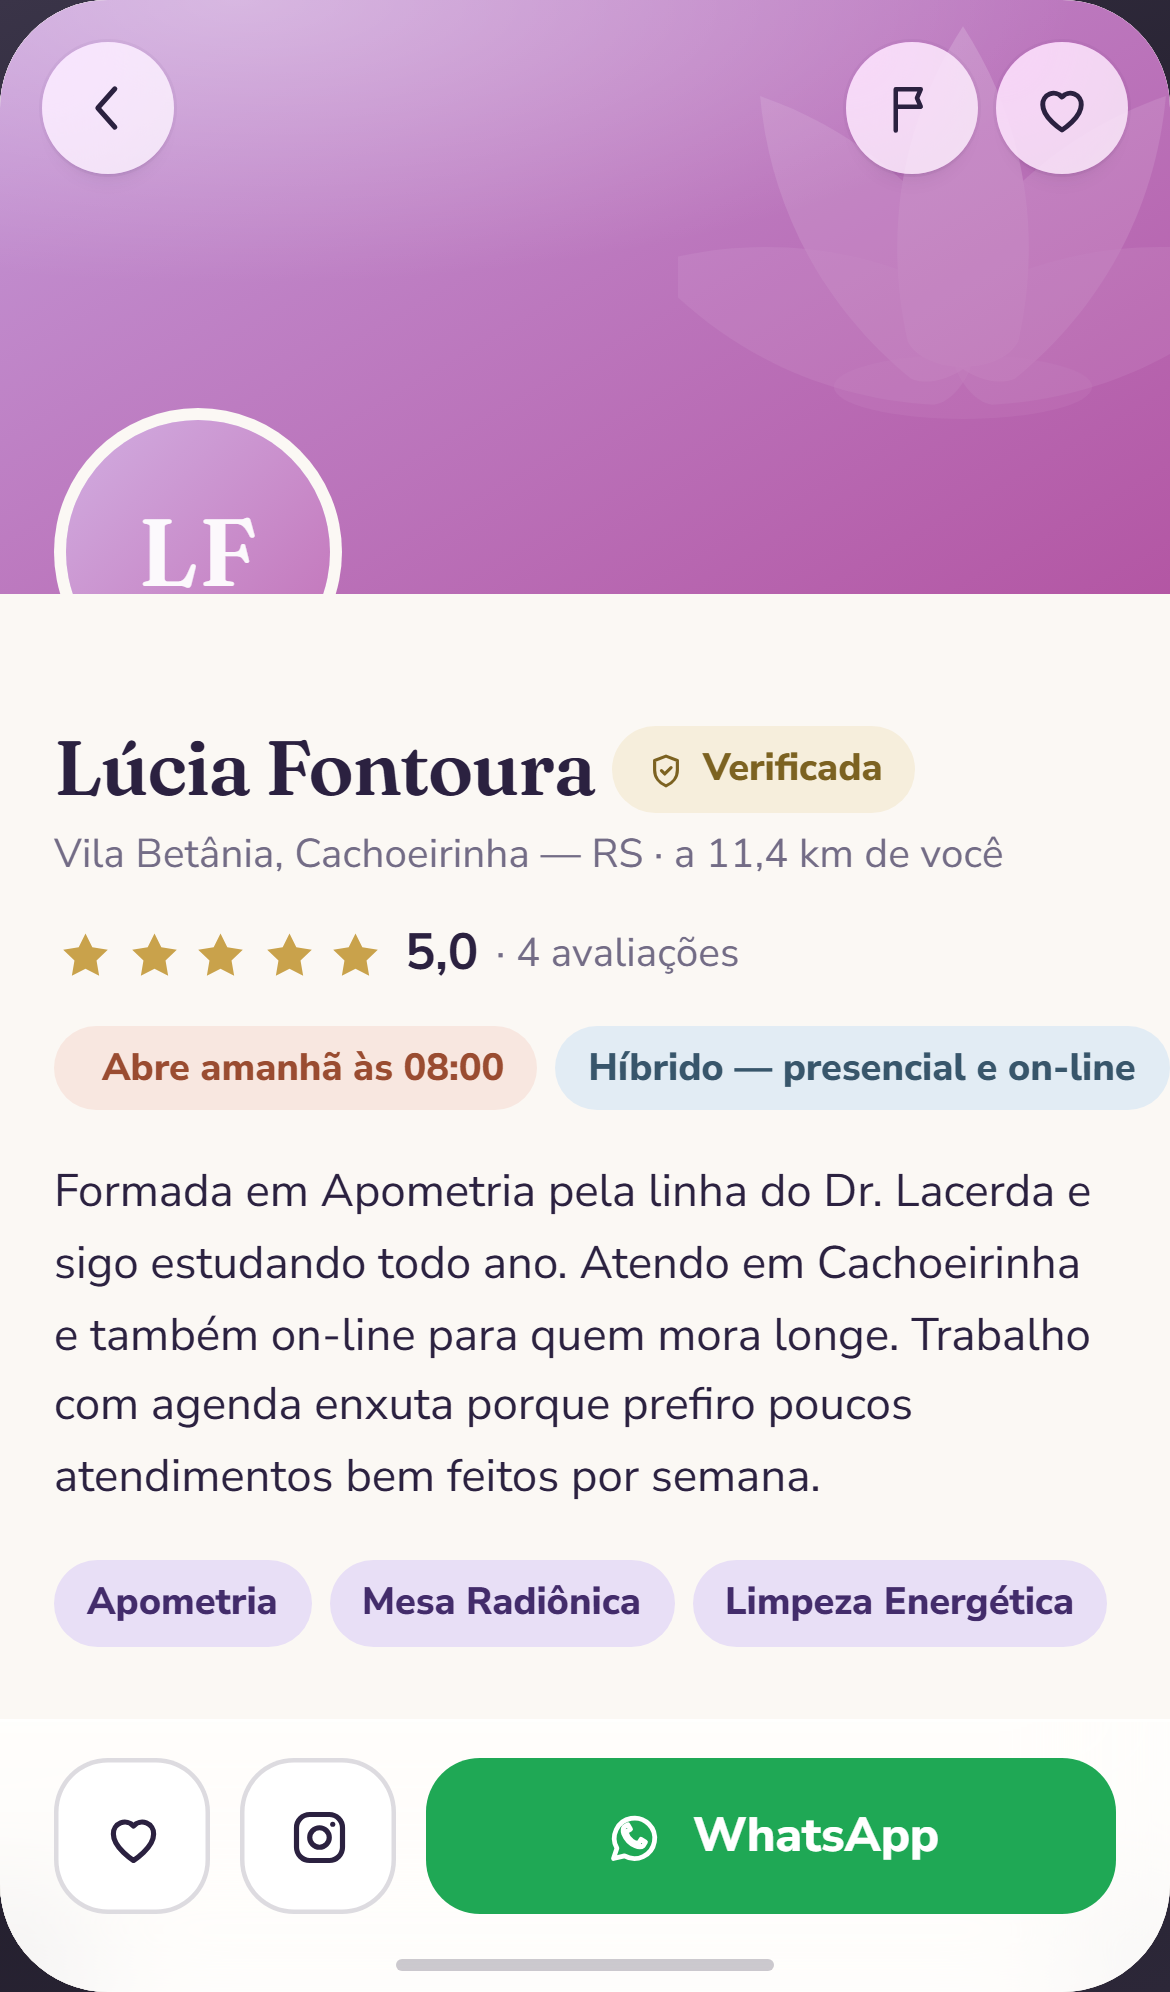
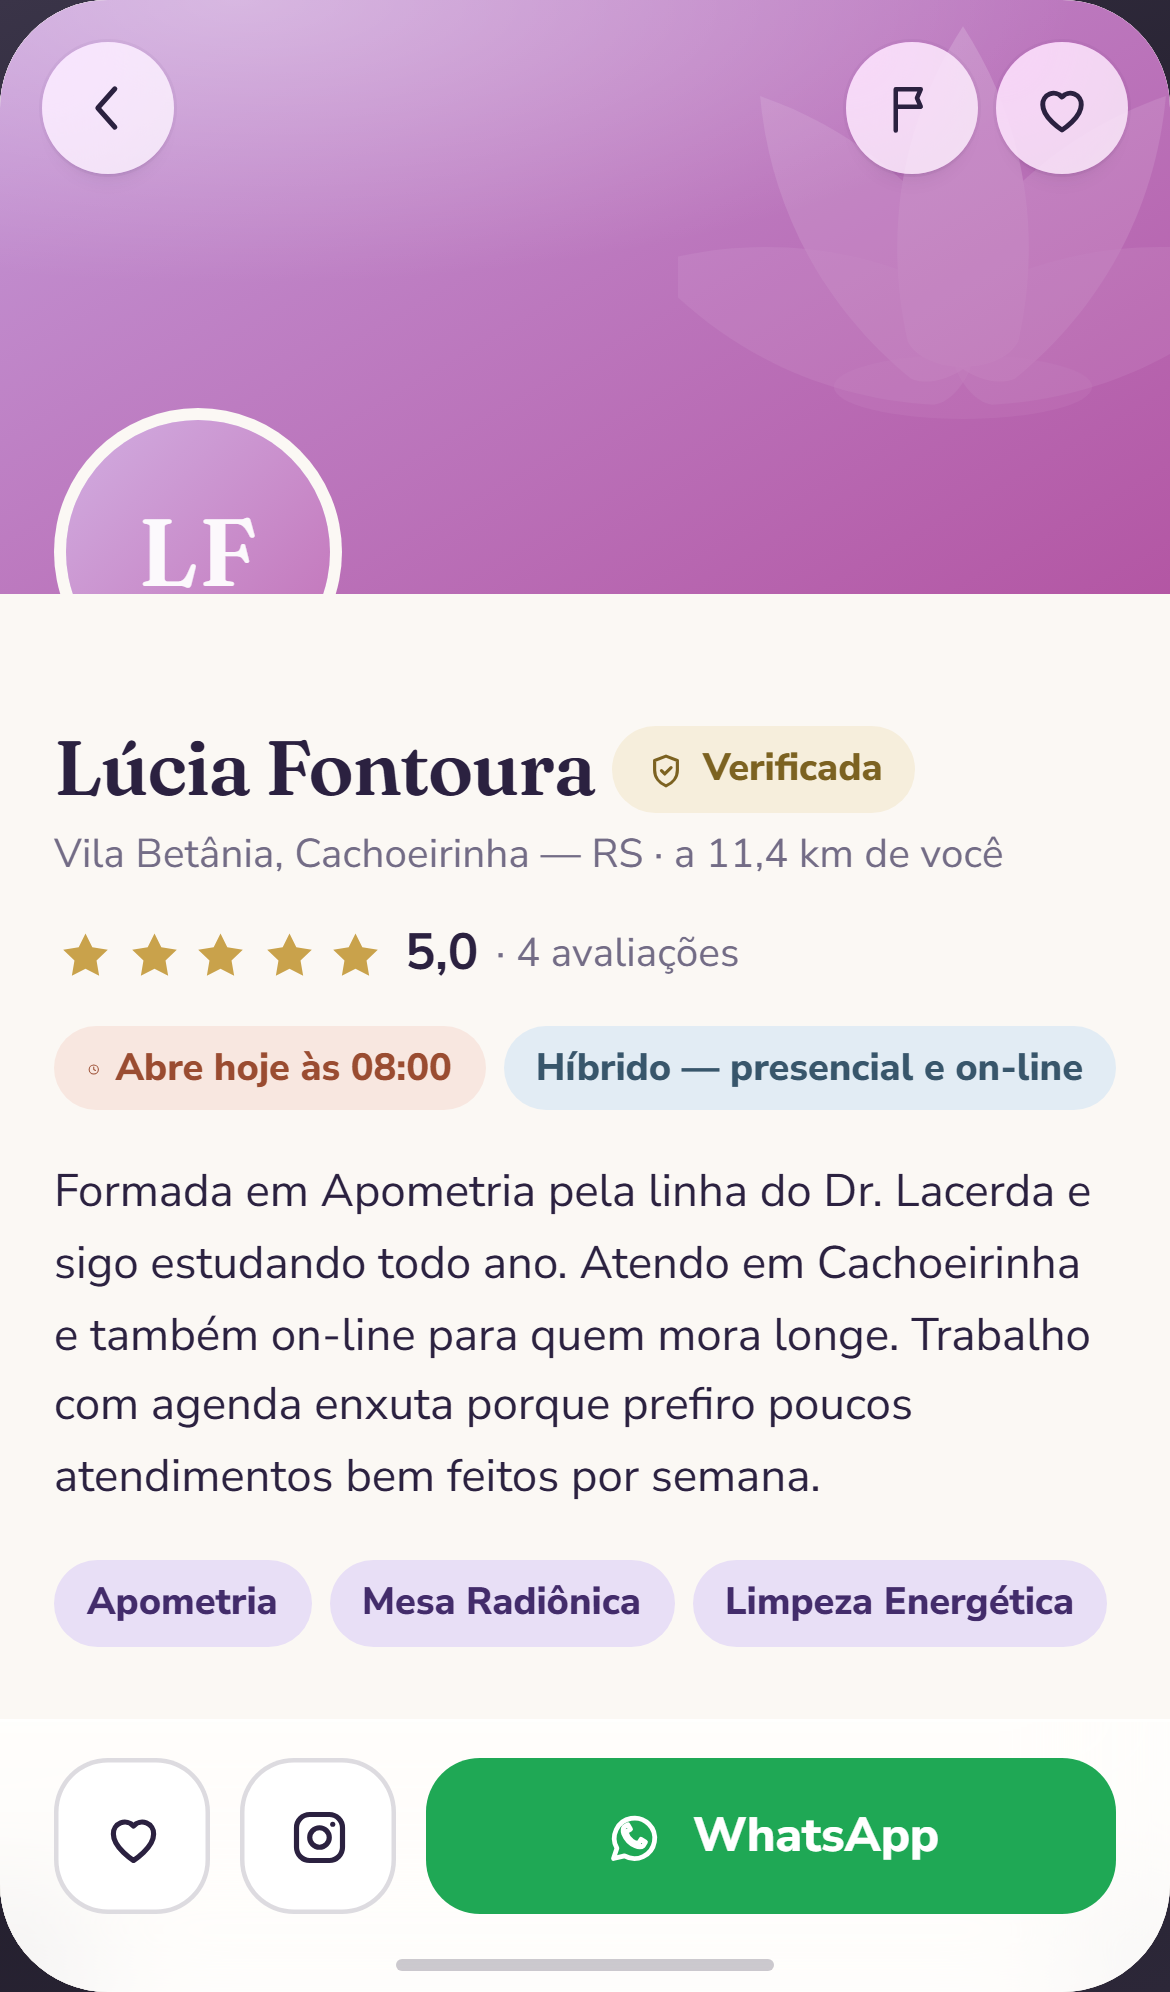
O VOLTAR na ordem certa, e a prova de carga que matou o vazamento de WebGL
- carga-minimapas.js: 20 aberturas de perfil em sequencia — canvases nao se
  acumulam, o contexto do mapa principal segue vivo, pilha volta a raiz. Foi
  esta prova que revelou o proximo item:
- voltarSePuder fechava a FOLHA antes de olhar a pilha — com um perfil
  empilhado, o VOLTAR fechava a folha invisivel atras e parecia morto por um
  aperto. Ordem corrigida (folha so e 'a coisa de cima' com a raiz no topo);
  Esc segue a mesma ordem
- aparelho-voltar.js: a sequencia provada com o BOTAO FISICO no emulador —
  VOLTAR fecha o perfil, e na raiz fecha o app
- 132 provas em seis bancadas

Changed region(s): [[0.0923, 0.498, 1.0, 0.5602]]

diff --git a/teste/aparelho-voltar.js b/teste/aparelho-voltar.js
@@ -1,0 +1,120 @@
+/* ============================================================================
+   teste/aparelho-voltar.js — o VOLTAR físico do Android com perfil sobre folha
+
+   O defeito que motiva esta prova: `voltarSePuder` fechava a FOLHA antes de
+   olhar a pilha — com um perfil empilhado, o VOLTAR fechava a folha invisível
+   atrás dele e parecia morto (um aperto sem efeito nenhum na tela).
+
+   Pré-requisitos (iguais aos do aparelho-aviso.js):
+     APK debug instalado e aberto no emulador
+     adb forward tcp:9222 localabstract:webview_devtools_remote_<pid>
+
+   O script navega até um perfil COM a folha aberta atrás (via CDP), aperta o
+   VOLTAR DE VERDADE (keyevent 4, via adb — fora deste script) em coordenação
+   com o chamador, e confere o estado. Como um só processo não faz os dois,
+   ele expõe os passos por argumento:
+     node teste/aparelho-voltar.js preparar   → navega até perfil-sobre-folha
+     node teste/aparelho-voltar.js conferir   → depois do keyevent 4: o perfil
+                                                fechou e a folha FICOU?
+     node teste/aparelho-voltar.js conferir2  → depois de outro keyevent 4:
+                                                a folha fechou e o app está vivo?
+   Saída: 0 = passo ok · 1 = falhou · 2 = infra
+   ========================================================================= */
+const PASSO = process.argv[2] || 'preparar';
+
+function avaliar(wsUrl, expressao) {
+  return new Promise((ok, falha) => {
+    const ws = new WebSocket(wsUrl);
+    const t = setTimeout(() => { ws.close(); falha(new Error('sem resposta em 10 s')); }, 10000);
+    ws.onopen = () => ws.send(JSON.stringify({ id: 1, method: 'Runtime.evaluate',
+      params: { expression: expressao, returnByValue: true, awaitPromise: true } }));
+    ws.onmessage = (ev) => {
+      const m = JSON.parse(ev.data);
+      if (m.id !== 1) return;
+      clearTimeout(t); ws.close();
+      if (m.error) return falha(new Error(m.error.message));
+      if (m.result.exceptionDetails) return falha(new Error(m.result.exceptionDetails.text));
+      ok(m.result.result.value);
+    };
+    ws.onerror = () => { clearTimeout(t); falha(new Error('websocket falhou')); };
+  });
+}
+
+const EXPR = {
+  preparar: `(async () => {
+    const espera = (ms) => new Promise((r) => setTimeout(r, ms));
+    // atravessa o login se ainda estiver na entrada
+    if (document.querySelector('[data-a="entrarCelular"]')) {
+      document.querySelector('[data-a="entrarCelular"]').click(); await espera(400);
+      document.getElementById('campoTel').value = '(51) 9 8877-6655';
+      document.getElementById('campoTel').dispatchEvent(new Event('input', { bubbles: true }));
+      document.querySelector('[data-a="enviarCodigo"]').click(); await espera(400);
+      document.querySelectorAll('.digito').forEach((d, i) => { d.value = String(i + 1); d.dispatchEvent(new Event('input', { bubbles: true })); });
+      await espera(200);
+      document.getElementById('btnCodigo').click(); await espera(400);
+      const papel = document.querySelector('[data-papel="cliente"]'); if (papel) papel.click(); await espera(400);
+      const cid = document.querySelector('[data-a="escolherCidade"]'); if (cid) { cid.click(); await espera(500); }
+      const poa = document.querySelector('[data-a="definirCidade"][data-cidade="Porto Alegre"]'); if (poa) poa.click();
+      await espera(1400);
+    }
+    // pino → folha → perfil
+    const t = Dados.porId('t3');
+    App.mapa.centralizar(t.lat, t.lng, 'pessoa', false); await espera(400);
+    /* O toque no pino é decidido por POINTER events (pointerdown guarda o
+       alvo, pointerup decide) — .click() sintético não os produz e o mapa
+       nunca fica sabendo. Despacha a sequência completa. */
+    const pino = document.querySelector('.pin[data-id="t3"]');
+    if (pino) {
+      const r = pino.getBoundingClientRect();
+      const oe = { bubbles: true, cancelable: true, pointerId: 7, isPrimary: true,
+                   clientX: r.x + r.width / 2, clientY: r.y + r.height / 2 };
+      pino.dispatchEvent(new PointerEvent('pointerdown', oe));
+      await espera(60);
+      pino.dispatchEvent(new PointerEvent('pointerup', oe));
+      pino.dispatchEvent(new MouseEvent('click', oe));
+    }
+    await espera(500);
+    const abrir = document.querySelector('[data-a="abrirPerfil"]'); if (abrir) abrir.click(); await espera(900);
+    return JSON.stringify({
+      telas: document.querySelectorAll('.tela').length,
+      folhaVisivel: !document.getElementById('folha').hidden,
+    });
+  })()`,
+  conferir: `JSON.stringify({
+    telas: document.querySelectorAll('.tela').length,
+    folhaVisivel: !document.getElementById('folha').hidden,
+  })`,
+  onde: `JSON.stringify({
+    telas: Array.from(document.querySelectorAll('.tela')).map((t) => t.dataset.tela || '?'),
+    pins: document.querySelectorAll('.pin').length,
+    temEntrar: !!document.querySelector('[data-a="entrarCelular"]'),
+    folha: document.getElementById('folha') ? !document.getElementById('folha').hidden : null,
+    corpo: document.body.innerText.slice(0, 140).replace(/\\n/g, ' § '),
+  })`,
+  conferir2: `JSON.stringify({
+    telas: document.querySelectorAll('.tela').length,
+    folhaVisivel: !document.getElementById('folha').hidden,
+    appVivo: typeof App !== 'undefined' && document.querySelectorAll('.pin').length > 0,
+  })`,
+};
+
+(async () => {
+  const lista = await (await fetch('http://127.0.0.1:9222/json')).json();
+  const pag = lista.find((x) => /appassets\.androidplatform\.net/.test(x.url || '')) || lista[0];
+  if (!pag || !pag.webSocketDebuggerUrl) { console.error('nenhuma página no inspetor'); process.exit(2); }
+
+  const r = JSON.parse(await avaliar(pag.webSocketDebuggerUrl, EXPR[PASSO]));
+  console.log(PASSO + ':', JSON.stringify(r));
+
+  let ok = false;
+  // `abrirPerfil` fecha a folha POR DESENHO antes de empilhar — então o estado
+  // preparado é perfil aberto com folha fechada. A janela "perfil sobre folha
+  // aberta" só existe durante a animação, e essa ordem é provada no navegador
+  // pela carga-minimapas (20 voltas). Aqui se prova o VOLTAR físico:
+  //   #1 fecha o PERFIL (não pode ser engolido) · #2 na raiz fecha o APP.
+  if (PASSO === 'preparar') ok = r.telas === 2;
+  if (PASSO === 'conferir') ok = r.telas === 1;
+  if (PASSO === 'conferir2') ok = r.telas === 1 && r.appVivo;
+  console.log(ok ? '  ok' : '  FALHA — esperado outro estado');
+  process.exit(ok ? 0 : 1);
+})().catch((e) => { console.error('FALHOU:', e.message); process.exit(2); });

diff --git a/teste/carga-minimapas.js b/teste/carga-minimapas.js
@@ -1,0 +1,112 @@
+/* ============================================================================
+   teste/carga-minimapas.js — o vazamento de WebGL sob CARGA de verdade
+
+   Cada mini-mapa do perfil é um contexto WebGL, e o navegador dá ~16 por
+   página. Antes do conserto (soltarMinis no desmonte da pilha), abrir perfis
+   em sequência estourava o limite e o CONTEXTO MAIS ANTIGO — o mapa
+   principal — era derrubado sem nenhum erro: o mapa simplesmente apagava.
+
+   Esta bancada abre e fecha 20 perfis e prova três coisas:
+     1. o número de canvases no documento não cresce com o uso;
+     2. o mapa principal continua com o contexto VIVO (desenha de verdade);
+     3. nenhum erro de console no caminho.
+
+   Uso: node teste/carga-minimapas.js
+   Saída: 0 = passou · 1 = falhou
+   ========================================================================= */
+const { chromium, devices } = require('../ferramentas/achar_playwright')();
+const path = require('path');
+
+const ARQUIVO = 'file:///' + path.join(__dirname, '..', 'prototipo', 'index.html').replace(/\\/g, '/');
+const VOLTAS = 20;
+
+const falhas = [];
+function checa(cond, nome, detalhe = '') {
+  (cond ? [] : falhas).push(nome);
+  console.log(`${cond ? 'ok  ' : 'FALHA'}  ${nome}${detalhe ? ' — ' + detalhe : ''}`);
+}
+
+(async () => {
+  const browser = await chromium.launch();
+  const ctx = await browser.newContext({ ...devices['iPhone 13'], locale: 'pt-BR' });
+  const p = await ctx.newPage();
+  const erros = [];
+  p.on('console', (m) => { if (m.type() === 'error') erros.push(m.text()); });
+  p.on('pageerror', (e) => erros.push('pageerror: ' + e.message));
+
+  await p.goto(ARQUIVO);
+  await p.waitForSelector('#splash', { state: 'detached', timeout: 8000 }).catch(() => {});
+  await p.waitForTimeout(200);
+  const clicar = async (s, ms = 420) => { await p.click(s, { timeout: 5000 }); await p.waitForTimeout(ms); };
+
+  await clicar('[data-a="entrarCelular"]');
+  await p.fill('#campoTel', '(51) 9 8877-6655');
+  await clicar('[data-a="enviarCodigo"]');
+  const dig = await p.$$('.digito');
+  for (let i = 0; i < dig.length; i++) await dig[i].fill(String(i + 1));
+  await clicar('#btnCodigo');
+  await clicar('[data-papel="cliente"]');
+  await clicar('[data-a="escolherCidade"]', 600);
+  await clicar('[data-a="definirCidade"][data-cidade="Porto Alegre"]', 1100);
+  await p.waitForFunction(() => document.querySelectorAll('.pin').length === 12, null, { timeout: 20000 }).catch(() => {});
+
+  const canvasesAntes = await p.$$eval('canvas', (e) => e.length);
+
+  /* Abre e fecha perfis alternando as 12 terapeutas. Cada abertura monta um
+     mini-mapa (contexto novo); cada volta TEM de devolvê-lo. */
+  for (let i = 0; i < VOLTAS; i++) {
+    const id = 't' + ((i % 12) + 1);
+    await p.evaluate((tid) => {
+      const t = Dados.porId(tid);
+      App.mapa.centralizar(t.lat, t.lng, 'pessoa', false);
+    }, id);
+    await p.waitForTimeout(200);
+    await p.click(`.pin[data-id="${id}"]`, { timeout: 4000 }).catch(() => {});
+    await p.waitForTimeout(350);
+    const abriu = await p.evaluate(() => {
+      const b = document.querySelector('[data-a="abrirPerfil"]');
+      if (b) { b.click(); return true; }
+      return false;
+    });
+    await p.waitForTimeout(650);
+    if (!abriu) { checa(false, `volta ${i + 1}: o perfil não abriu`); break; }
+    await p.evaluate(() => App.voltarSePuder());
+    await p.waitForTimeout(600);
+    const telasAgora = await p.$$eval('.tela', (e) => e.map((t) => (t.dataset.tela || t.className) + (t.hidden ? ' HIDDEN' : '') + '@' + Math.round(t.getBoundingClientRect().x)));
+    if (telasAgora.length > 1) console.log(`      volta ${i + 1} (${id}): ${telasAgora.join(' | ')}`);
+  }
+
+  // A última mola precisa PARAR (o desmonte acontece no aoParar dela) —
+  // medir por tempo fixo era flakiness da própria bancada.
+  await p.waitForFunction(() => document.querySelectorAll('.tela').length === 1, null, { timeout: 4000 }).catch(() => {});
+  const depois = await p.evaluate(() => ({
+    canvases: document.querySelectorAll('canvas').length,
+    telas: document.querySelectorAll('.tela').length,
+  }));
+  checa(depois.telas === 1, 'a pilha voltou à raiz depois das 20 voltas', `${depois.telas} tela(s)`);
+  checa(depois.canvases <= canvasesAntes + 1,
+    'os canvases não se acumulam com o uso',
+    `antes ${canvasesAntes}, depois das ${VOLTAS} voltas ${depois.canvases}`);
+
+  /* O mapa principal segue VIVO? Ler um pixel do canvas com contexto perdido
+     devolve tudo zero — mas MapLibre não expõe preserveDrawingBuffer, então a
+     prova honesta é perguntar ao próprio contexto e exercitar o mapa. */
+  const vivo = await p.evaluate(() => new Promise((res) => {
+    const cv = document.querySelector('#mapa canvas');
+    if (!cv) return res({ existe: false });
+    const gl = cv.getContext('webgl2') || cv.getContext('webgl');
+    const perdido = gl ? gl.isContextLost() : null;
+    // Exercita: recentrar dispara render; se o contexto caiu, o MapLibre emite erro
+    try { App.mapa.centralizar(-30.0325, -51.23033, 'pessoa', false); } catch (e) { return res({ existe: true, perdido, erroAoMover: e.message }); }
+    setTimeout(() => res({ existe: true, perdido }), 400);
+  }));
+  checa(vivo.existe && vivo.perdido === false && !vivo.erroAoMover,
+    'o mapa principal continua com o contexto WebGL vivo', JSON.stringify(vivo));
+
+  const errosReais = erros.filter((e) => !/WebGL warning|GPU stall/i.test(e));
+  checa(errosReais.length === 0, 'nenhum erro de console nas 20 voltas', errosReais.slice(0, 2).join(' | '));
+
+  console.log(falhas.length ? `\n  ${falhas.length} FALHARAM` : '\n  o vazamento está morto: 20 voltas e o mapa segue vivo');
+  await browser.close();
+  process.exit(falhas.length ? 1 : 0);
+})().catch((e) => { console.error('A BANCADA QUEBROU:', e.message); process.exit(2); });

diff --git a/index.html b/index.html
@@ -5008,7 +5008,9 @@ const App = (() => {
     });
 
     document.addEventListener('keydown', (e) => {
-      if (e.key === 'Escape') { if (folhaAberta) fecharFolha(); else voltar(); }
+      // Mesma ordem do VOLTAR do Android — a folha atrás de uma tela
+      // empilhada NÃO é a primeira a fechar
+      if (e.key === 'Escape') voltarSePuder();
       /* Cartões são <article role="button"> — e role="button" NÃO ganha o
          click sintético que um <button> de verdade ganha. Sem isto, Enter e
          espaço num cartão focado não abrem nada. */
@@ -5434,8 +5436,14 @@ const App = (() => {
      true se havia para onde voltar — fechar no meio de um fluxo é a maior
      irritação de app feito em WebView. */
   function voltarSePuder() {
-    if (folhaAberta) { fecharFolha(); return true; }
+    /* A ordem importa: a folha só é "a coisa de cima" quando a RAIZ está no
+       topo da pilha. Com um perfil empilhado, fechar primeiro a folha —
+       invisível atrás dele — fazia o VOLTAR do Android parecer morto: um
+       aperto não mudava nada na tela, só o segundo fechava o perfil.
+       (Achado pela prova de carga, 20 aberturas seguidas.) */
+    if (folhaAberta && pilha.length === 1) { fecharFolha(); return true; }
     if (pilha.length > 1) { voltar(); return true; }
+    if (folhaAberta) { fecharFolha(); return true; }
     return false;
   }
 

diff --git a/src/06-app.js b/src/06-app.js
@@ -831,7 +831,9 @@ const App = (() => {
     });
 
     document.addEventListener('keydown', (e) => {
-      if (e.key === 'Escape') { if (folhaAberta) fecharFolha(); else voltar(); }
+      // Mesma ordem do VOLTAR do Android — a folha atrás de uma tela
+      // empilhada NÃO é a primeira a fechar
+      if (e.key === 'Escape') voltarSePuder();
       /* Cartões são <article role="button"> — e role="button" NÃO ganha o
          click sintético que um <button> de verdade ganha. Sem isto, Enter e
          espaço num cartão focado não abrem nada. */
@@ -1257,8 +1259,14 @@ const App = (() => {
      true se havia para onde voltar — fechar no meio de um fluxo é a maior
      irritação de app feito em WebView. */
   function voltarSePuder() {
-    if (folhaAberta) { fecharFolha(); return true; }
+    /* A ordem importa: a folha só é "a coisa de cima" quando a RAIZ está no
+       topo da pilha. Com um perfil empilhado, fechar primeiro a folha —
+       invisível atrás dele — fazia o VOLTAR do Android parecer morto: um
+       aperto não mudava nada na tela, só o segundo fechava o perfil.
+       (Achado pela prova de carga, 20 aberturas seguidas.) */
+    if (folhaAberta && pilha.length === 1) { fecharFolha(); return true; }
     if (pilha.length > 1) { voltar(); return true; }
+    if (folhaAberta) { fecharFolha(); return true; }
     return false;
   }
 

diff --git a/README.md b/README.md
@@ -64,8 +64,8 @@ ficção, nada sai do aparelho e nada fica gravado.
 | Vitrine | galerias do local e do trabalho no perfil, e a modalidade dita por extenso: presencial, on-line ou híbrido |
 | Conquistas | 7 selos que marcam a jornada real — no produto, quem concede é o banco, por gatilho |
 | Avisos | notificação nativa na **tela de bloqueio**, com política: silêncio à noite, no máximo 3 por sessão |
-| 128 provas | em navegador real: fluxos (85), acessibilidade (15), GPS (12), conquistas (11), plano B (5) — com orçamentos de desempenho e 5 larguras |
-| Android | APK instalável, provado em emulador — inclusive o aviso no bloqueio |
+| 132 provas | em navegador real: fluxos (85), acessibilidade (15), GPS (12), conquistas (11), plano B (5), carga (4) — com orçamentos de desempenho e 5 larguras |
+| Android | APK instalável, provado em emulador — o aviso no bloqueio e o VOLTAR físico na ordem certa |
 | Banco | SQL completo para Supabase + PostGIS: 16 tabelas, RLS em todas, gatilhos que concedem |
 | Documentação | [7 documentos](documentacao/00-INDICE.md) explicando como o código funciona e por quê |
 

diff --git a/documentacao/01-arquitetura-geral.md b/documentacao/01-arquitetura-geral.md
@@ -85,7 +85,10 @@ O que faz isso parecer aplicativo e não site:
 No Android, o botão VOLTAR do sistema pergunta à página (`App.voltarSePuder()`)
 antes de fechar o app — e só fecha quando a página diz que não há para onde
 voltar. Fechar o app no meio de um fluxo é a maior irritação de WebView mal
-feito.
+feito. **A ordem interna importa:** a folha só é "a coisa de cima" quando a
+raiz está no topo da pilha — fechar primeiro uma folha invisível atrás de um
+perfil fazia o VOLTAR parecer morto por um aperto (achado pela prova de carga,
+consertado e provado com o botão físico no emulador).
 
 ### As telas de baixo são isoladas — e sem `inert`, de propósito
 
